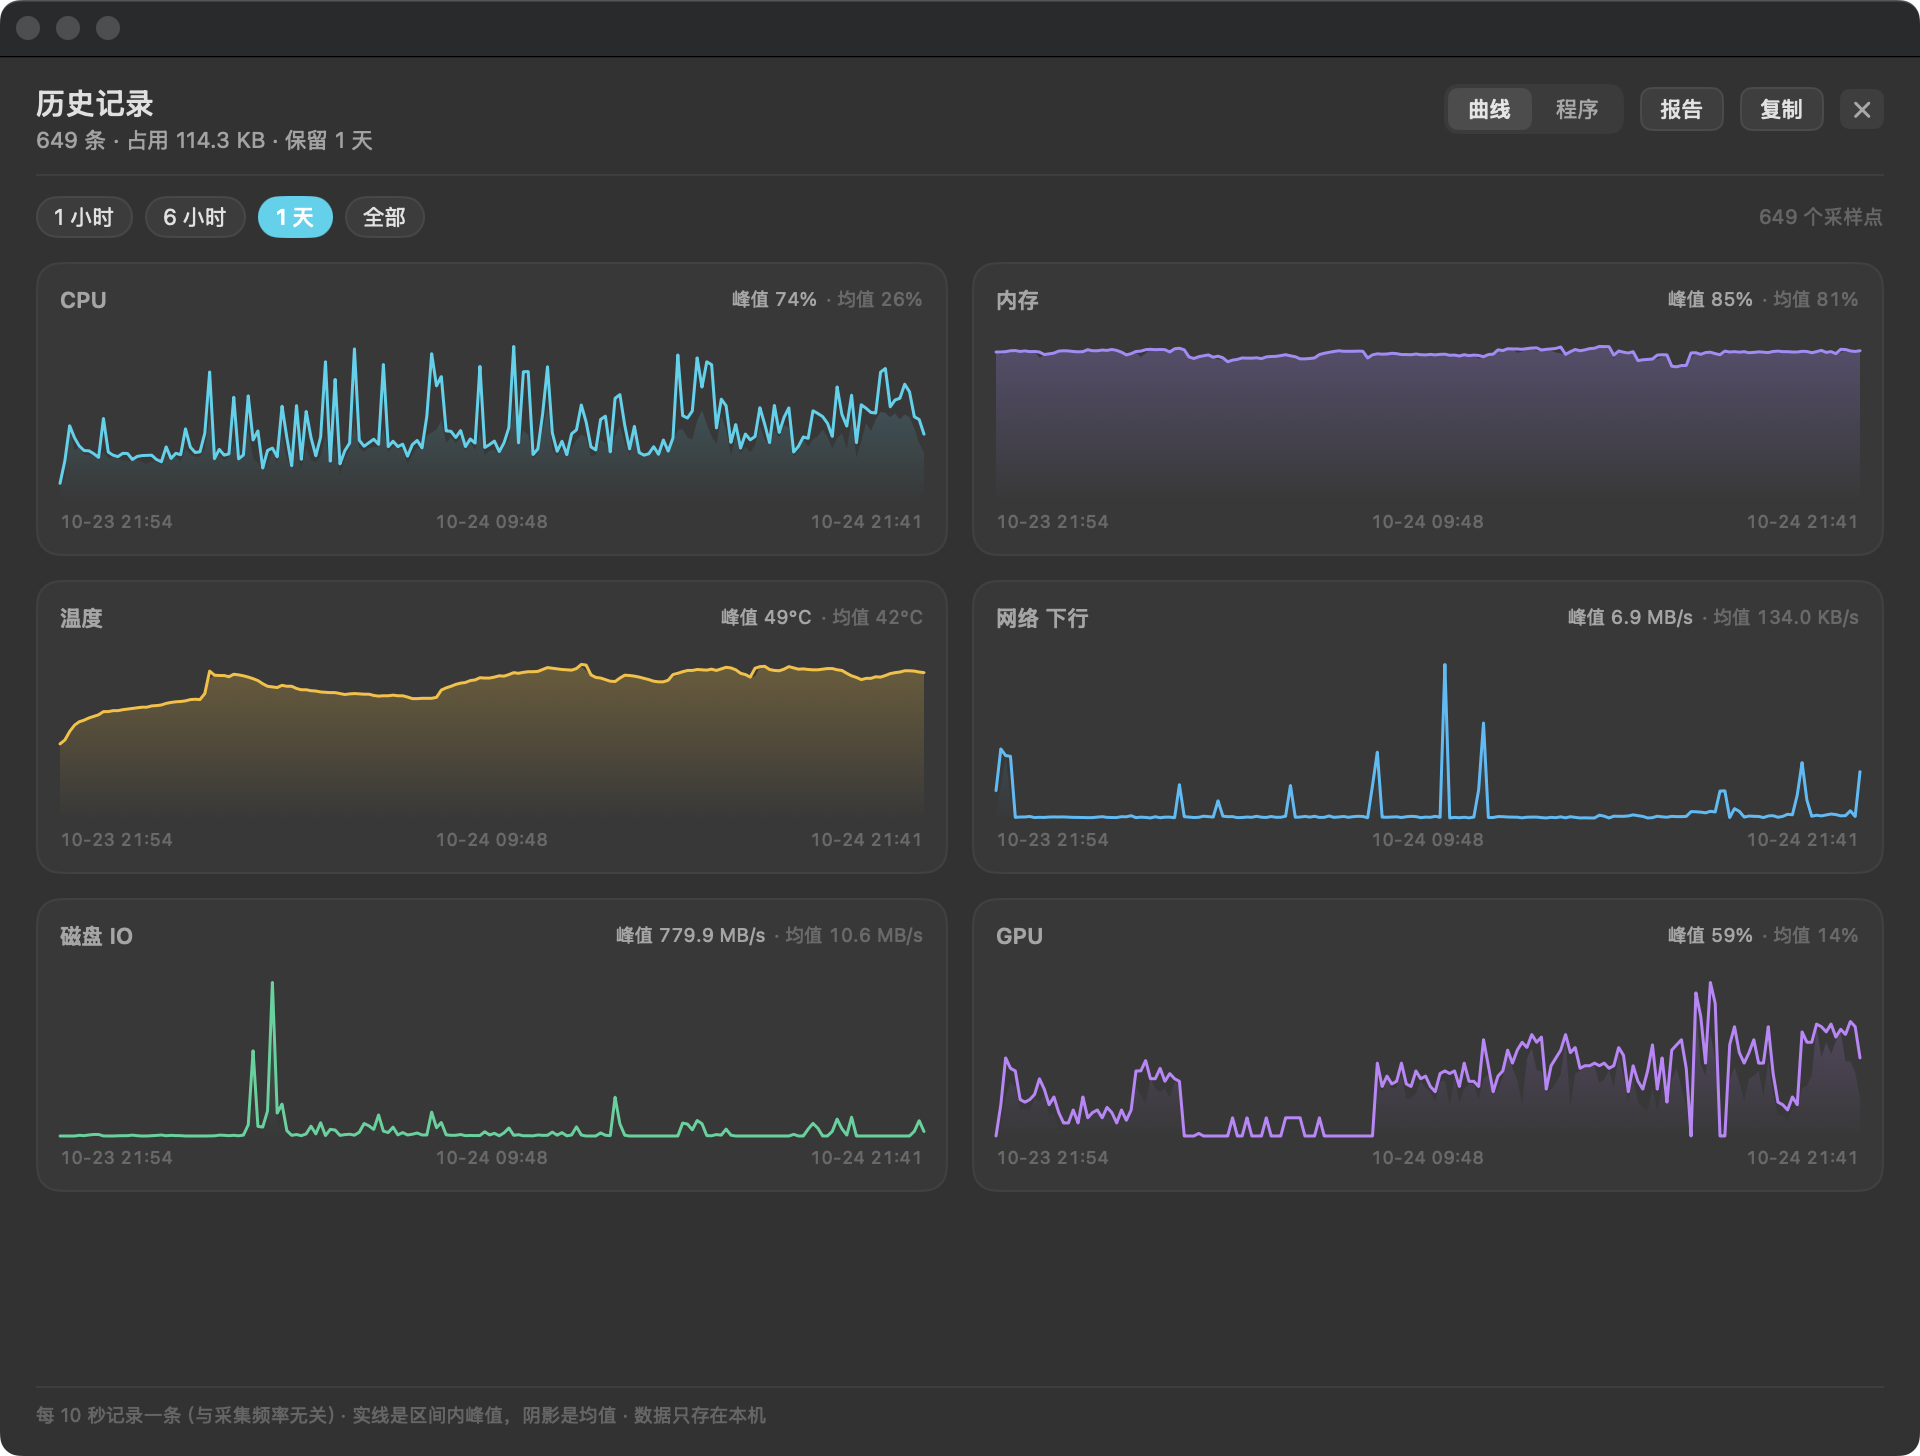
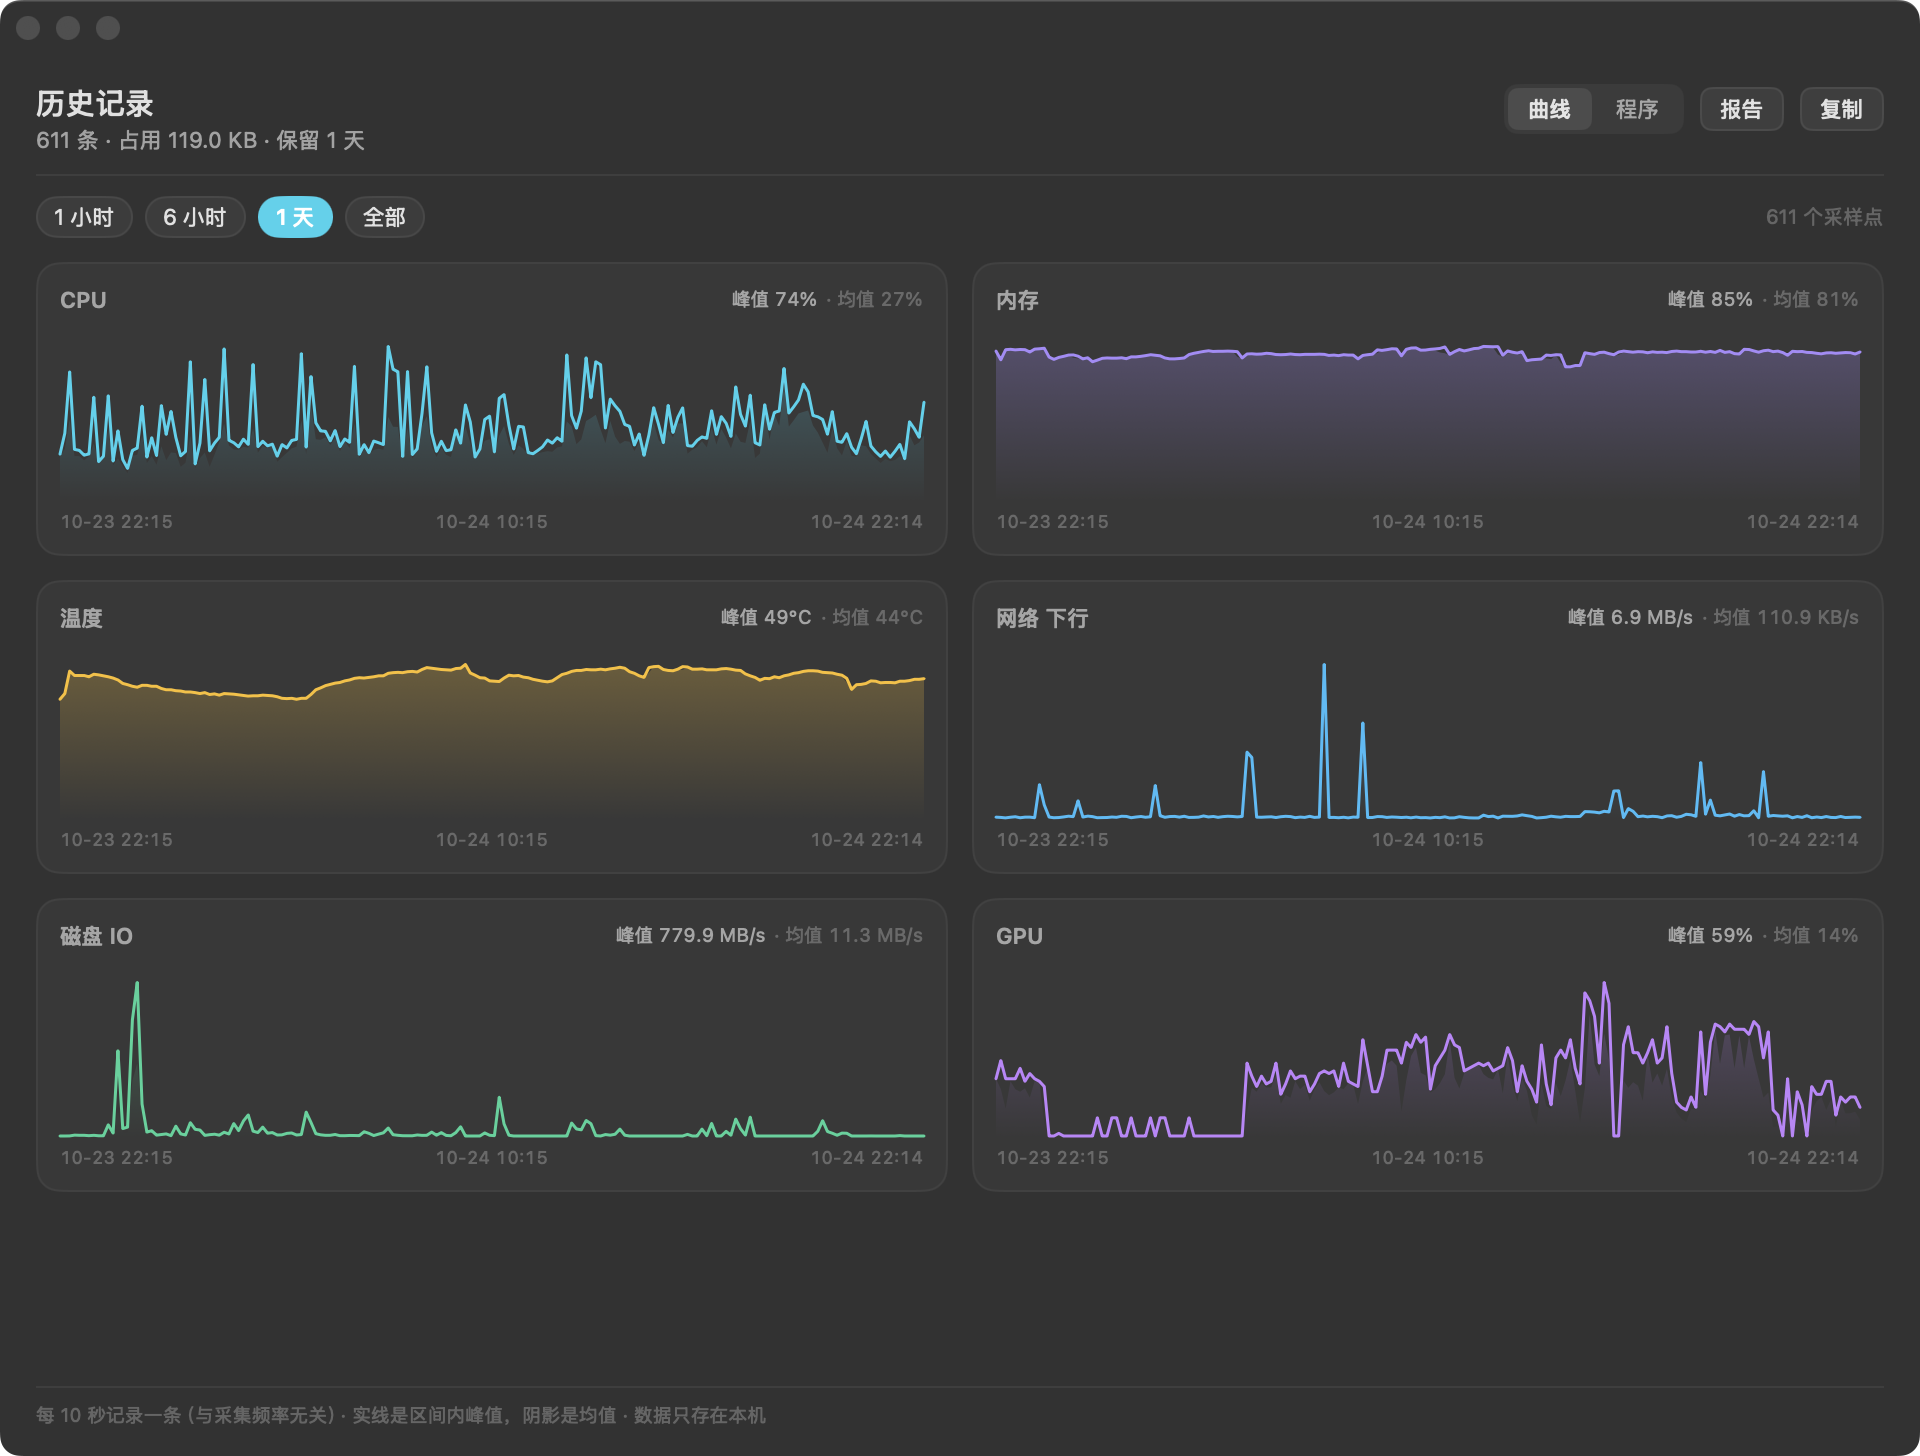
feat(ui): 三个窗口去掉标题栏分隔线，内容顶到最上面
用户看到的那条线不是标题文字，是标题栏自己的分隔线——只设
titleVisibility = .hidden 是去不掉的。

- 新增 NSWindow.useUnifiedChrome()：.fullSizeContentView + 透明标题栏 +
  titlebarSeparatorStyle = .none + 背景可拖
- 主面板 / 历史 / 设置三个窗口统一走这一套；正文靠 safeAreaInsets 自动
  让开红绿灯，不需要手写 padding
- 历史、设置里自绘的 ✕ 删掉（左上角红绿灯已经是关闭按钮了），
  键盘党改用 Esc（cancelOperation）
- 关于卡片：技术栈 Tauri 2 → SwiftUI，版本号跟 core/Cargo.toml 一起到 0.2.0
- 截图更新（新增浅色主题主面板），ADR-021 记下这次取舍

diff --git a/macos/Sources/EZPcMonitor/UI/WindowChrome.swift b/macos/Sources/EZPcMonitor/UI/WindowChrome.swift
@@ -1,0 +1,31 @@
+import AppKit
+
+/// 三个窗口共用的外观：内容延伸到标题栏底下，标题栏只剩三个红绿灯。
+///
+/// 现在 macOS 上的新应用基本都这么做（系统设置、Music、Notes，以及绝大多数
+/// 第三方工具）。传统的 `.titled` 窗口会在标题栏和正文之间画一条 1px 分隔线，
+/// 标题栏自己还带一层材质——那是最"像 2010 年"的地方。
+///
+/// 三件事必须一起做，少一件都不到位：
+/// 1. `.fullSizeContentView`：内容视图占满整个窗口，能画到标题栏底下；
+/// 2. `titlebarAppearsTransparent`：去掉标题栏那层材质，否则会在内容上盖一条灰带；
+/// 3. `titlebarSeparatorStyle = .none`：去掉那条分隔线（macOS 11+ 的 API）。
+///    只做 1+2 的话，线还在。
+///
+/// 红绿灯不会被内容盖住：`.fullSizeContentView` 会把标题栏高度写进
+/// `contentView.safeAreaInsets.top`，SwiftUI 的根视图默认遵守安全区，
+/// 所以正文自动从红绿灯下方开始。真要让内容顶上去，得显式 `.ignoresSafeArea()`。
+///
+/// 曾经踩过的坑：只开 `titlebarAppearsTransparent` 而没同时把内容让出安全区，
+/// 内容会盖住红绿灯，窗口就点不掉了。现在靠安全区解决，不需要手写 padding。
+extension NSWindow {
+    func useUnifiedChrome() {
+        styleMask.insert(.fullSizeContentView)
+        titlebarAppearsTransparent = true
+        titleVisibility = .hidden
+        titlebarSeparatorStyle = .none
+        // 标题栏只剩 28pt，光靠那一条拖窗口太窄；让整块背景都能拖。
+        isMovableByWindowBackground = true
+        backgroundColor = .windowBackgroundColor
+    }
+}

diff --git a/macos/Sources/EZPcMonitor/UI/SettingsWindow.swift b/macos/Sources/EZPcMonitor/UI/SettingsWindow.swift
@@ -11,12 +11,17 @@ final class SettingsWindow: NSWindow {
             backing: .buffered,
             defer: false
         )
-        titleVisibility = .hidden
         title = "Settings"
+        useUnifiedChrome()
         isReleasedWhenClosed = false
         contentView = NSHostingView(rootView: AnyView(content))
         center()
         setFrameAutosaveName("ezpcm.settings")
+    }
+
+    /// Esc 关窗。窗口里没有自绘的关闭按钮了，键盘总得留个出口。
+    override func cancelOperation(_ sender: Any?) {
+        performClose(nil)
     }
 }
 
@@ -110,20 +115,9 @@ struct SettingsView: View {
 
     var body: some View {
         VStack(alignment: .leading, spacing: 0) {
-            SheetHeader(i18n.t("set.title"), subtitle: i18n.t("set.sub")) {
-                Button { NSApp.keyWindow?.performClose(nil) } label: {
-                    Image(systemName: "xmark")
-                        .font(.system(size: 10, weight: .bold))
-                        .foregroundStyle(.secondary)
-                        .frame(width: 22, height: 20)
-                        .background(
-                            RoundedRectangle(cornerRadius: 5, style: .continuous)
-                                .fill(Color.primary.opacity(0.07))
-                        )
-                }
-                .buttonStyle(.plain)
-                .help(i18n.t("common.closeEsc"))
-            }
+            // 不再画自绘的 ✕：窗口左上角已经有红绿灯了，两个关闭按钮并排只会让人犹豫。
+            // 键盘党按 Esc 一样能关（下面的 onExitCommand）。
+            SheetHeader(i18n.t("set.title"), subtitle: i18n.t("set.sub"))
 
             Hairline().padding(.top, 10)
 

diff --git a/macos/Sources/EZPcMonitor/UI/HistoryWindow.swift b/macos/Sources/EZPcMonitor/UI/HistoryWindow.swift
@@ -12,12 +12,17 @@ final class HistoryWindow: NSWindow {
             backing: .buffered,
             defer: false
         )
-        titleVisibility = .hidden
         title = "History"
+        useUnifiedChrome()
         minSize = NSSize(width: 820, height: 560)
         contentView = NSHostingView(rootView: AnyView(content))
         center()
         setFrameAutosaveName("ezpcm.history")
+    }
+
+    /// Esc 关窗。窗口里没有自绘的关闭按钮了，键盘总得留个出口。
+    override func cancelOperation(_ sender: Any?) {
+        performClose(nil)
     }
 }
 
@@ -158,18 +163,8 @@ struct HistoryView: View {
                 Task { await makeReport(copy: true) }
             }
 
-            Button { NSApp.keyWindow?.performClose(nil) } label: {
-                Image(systemName: "xmark")
-                    .font(.system(size: 10, weight: .bold))
-                    .foregroundStyle(.secondary)
-                    .frame(width: 22, height: 20)
-                    .background(
-                        RoundedRectangle(cornerRadius: 5, style: .continuous)
-                            .fill(Color.primary.opacity(0.07))
-                    )
-            }
-            .buttonStyle(.plain)
-            .help(i18n.t("common.closeEsc"))
+            // 自绘的 ✕ 去掉了：窗口左上角已经有红绿灯，两个关闭按钮并排只会让人犹豫。
+            // 键盘党按 Esc 一样能关（HistoryWindow.cancelOperation）。
         }
     }
 

diff --git a/macos/Sources/EZPcMonitor/UI/DashboardView.swift b/macos/Sources/EZPcMonitor/UI/DashboardView.swift
@@ -11,11 +11,11 @@ final class DashboardWindow: NSWindow {
             backing: .buffered,
             defer: false
         )
-        // 标题栏透明、标题文字不画（大标题在内容里）。
-        // 注意别开 `titlebarAppearsTransparent`：它会把 `.fullSizeContentView`
-        // 塞进 styleMask，内容顶到窗口最上面，红绿灯被盖住——窗口就关不掉了。
-        titleVisibility = .hidden
+        // 标题栏透明、标题文字不画（大标题在内容里），内容延伸到标题栏底下。
+        // 具体做了哪三件事见 WindowChrome.swift——光设 titleVisibility 是没用的，
+        // 那条分隔线来自标题栏自己，不是标题文字。
         title = "EZPcMonitor"
+        useUnifiedChrome()
         minSize = NSSize(width: 880, height: 660)
         contentView = NSHostingView(rootView: AnyView(content))
         center()

diff --git a/macos/i18n/ja.ts b/macos/i18n/ja.ts
@@ -87,7 +87,7 @@ export const strings: Dict = {
   "set.clear": "クリア",
   "set.estimate": "現在の設定では、{ret} 分の履歴で約 {size}（{n} 秒ごとに 1 件）。",
   "set.group.about": "このアプリについて",
-  "set.aboutHint": "Tauri 2 · Rust · データはすべて端末内で収集",
+  "set.aboutHint": "SwiftUI · Rust · データはすべて端末内で収集",
   "set.foot": "変更はすぐに反映され、再起動は不要です。履歴ファイルはアプリのデータフォルダーの history.jsonl と procs/ フォルダーにあり、いつでも消去できます。",
 
   "hist.title": "履歴",

diff --git a/macos/i18n/fr.ts b/macos/i18n/fr.ts
@@ -88,7 +88,7 @@ export const strings: Dict = {
   "set.estimate":
     "Avec les réglages actuels, l'historique de {ret} occupe environ {size} (une ligne toutes les {n} s).",
   "set.group.about": "À propos",
-  "set.aboutHint": "Tauri 2 · Rust · tout est collecté localement",
+  "set.aboutHint": "SwiftUI · Rust · tout est collecté localement",
   "set.foot":
     "Les changements s'appliquent immédiatement, sans redémarrage. Le fichier d'historique se trouve dans le dossier de données de l'application (history.jsonl), les échantillons par programme dans procs/. Les deux peuvent être vidés à tout moment.",
 

diff --git a/macos/i18n/ko.ts b/macos/i18n/ko.ts
@@ -87,7 +87,7 @@ export const strings: Dict = {
   "set.clear": "비우기",
   "set.estimate": "현재 설정으로 {ret} 분량을 보관하면 약 {size}({n}초마다 한 줄)입니다.",
   "set.group.about": "정보",
-  "set.aboutHint": "Tauri 2 · Rust · 모든 데이터를 이 기기에서 수집",
+  "set.aboutHint": "SwiftUI · Rust · 모든 데이터를 이 기기에서 수집",
   "set.foot": "변경 사항은 즉시 적용되며 재시작이 필요 없습니다. 기록 파일은 앱 데이터 폴더의 history.jsonl과 procs/ 폴더이며 언제든 비울 수 있습니다.",
 
   "hist.title": "기록",

diff --git a/macos/i18n/en.ts b/macos/i18n/en.ts
@@ -87,7 +87,7 @@ export const strings: Dict = {
   "set.clear": "Clear",
   "set.estimate": "With the current settings, {ret} of history takes about {size} (one row every {n} s).",
   "set.group.about": "About",
-  "set.aboutHint": "Tauri 2 · Rust · everything is collected locally",
+  "set.aboutHint": "SwiftUI · Rust · everything is collected locally",
   "set.foot":
     "Changes apply immediately — no restart needed. The history file lives in the app data directory as history.jsonl, with the per-program samples under procs/. Both can be cleared at any time.",
 

diff --git a/macos/i18n/es.ts b/macos/i18n/es.ts
@@ -88,7 +88,7 @@ export const strings: Dict = {
   "set.estimate":
     "Con los ajustes actuales, {ret} de historial ocupan unos {size} (una fila cada {n} s).",
   "set.group.about": "Acerca de",
-  "set.aboutHint": "Tauri 2 · Rust · todo se captura localmente",
+  "set.aboutHint": "SwiftUI · Rust · todo se captura localmente",
   "set.foot":
     "Los cambios se aplican al instante, sin reiniciar. El archivo de historial está en la carpeta de datos de la aplicación (history.jsonl) y las muestras por programa en procs/. Ambos pueden vaciarse cuando quieras.",
 

diff --git a/macos/i18n/zh-CN.ts b/macos/i18n/zh-CN.ts
@@ -97,7 +97,7 @@ export const strings = {
   "set.clear": "清空",
   "set.estimate": "按当前设置，保留 {ret} 约占 {size}（每 {n} 秒一条）。",
   "set.group.about": "关于",
-  "set.aboutHint": "Tauri 2 · Rust · 数据全部在本机采集",
+  "set.aboutHint": "SwiftUI · Rust · 数据全部在本机采集",
   "set.foot": "改完立即生效，不需要重启。历史文件在应用数据目录下的 history.jsonl 与 procs/ 目录，随时可以清空。",
 
   // ---------------------------------------------------------------- 历史

diff --git a/macos/i18n/zh-TW.ts b/macos/i18n/zh-TW.ts
@@ -87,7 +87,7 @@ export const strings: Dict = {
   "set.clear": "清空",
   "set.estimate": "依目前設定，保留 {ret} 約佔 {size}（每 {n} 秒一筆）。",
   "set.group.about": "關於",
-  "set.aboutHint": "Tauri 2 · Rust · 資料全部在本機採集",
+  "set.aboutHint": "SwiftUI · Rust · 資料全部在本機採集",
   "set.foot": "改完立即生效，不需要重新啟動。歷史檔案在應用程式資料目錄下的 history.jsonl 與 procs/ 目錄，隨時可以清空。",
 
   "hist.title": "歷史記錄",

diff --git a/docs/DECISIONS.md b/docs/DECISIONS.md
@@ -578,3 +578,36 @@ SwiftPM）、用 UniFFI 之类的绑定生成器、或者手写一层 C ABI。
 - 报告图现在是"深色一张皮"，浅色主题下导出也是深色。用户拿到的是图，不是界面。
 - `extract-strings.mjs` 依赖 Node 的 `--experimental-strip-types`（Node 22+）。
   没有 Node 时构建会跳过这一步，沿用已有的 `strings.json`，不会失败。
+
+---
+
+## ADR-021 窗口不要标题栏：内容顶到最上面，只留红绿灯
+
+**日期**：2026-10-24 · **状态**：生效
+
+**背景**：三个窗口（主面板 / 历史 / 设置）原来都是标准 `.titled` 窗口，只是把标题文字
+藏了。结果是：标题栏一条材质 + 下面一条 1px 分隔线，看起来像 2010 年的窗口；而正文里
+已经有一个 19pt 的标题（主机名），两套标题并存。
+
+**决定**：三个窗口统一走 `NSWindow.useUnifiedChrome()`——`.fullSizeContentView` +
+`titlebarAppearsTransparent` + `titlebarSeparatorStyle = .none` + 允许背景拖动。
+同时删掉历史/设置里自绘的 ✕（红绿灯已经在那儿了），改用 Esc 关窗。
+
+**理由**：
+
+- 现在 macOS 上的新应用基本都是这个形态（系统设置、Music、Notes）。用户看到的那条线
+  不是标题文字，是**标题栏自己的分隔线**——只设 `titleVisibility = .hidden` 是去不掉的，
+  必须 `titlebarSeparatorStyle = .none`。
+- 正文让开红绿灯不需要手写 padding：`.fullSizeContentView` 会把标题栏高度写进
+  `contentView.safeAreaInsets.top`，SwiftUI 根视图默认遵守安全区。
+- 两个关闭按钮（红绿灯 + 自绘 ✕）并排会让人犹豫"哪个才是关"，删掉自绘的那个，
+  键盘党留给 Esc。
+
+**已知取舍**：
+
+- 窗口顶部 28pt 的标题栏区域不再能放控件（会被红绿灯和拖拽区吃掉）。
+- `isMovableByWindowBackground = true` 之后，按住卡片空白也能拖窗口——是特性，不是 bug，
+  但和"拖拽选择文字"的习惯略有冲突（本应用没有可选文字）。
+- 自绘 ✕ 删掉之后，只用鼠标的用户少了一个"就在右上角"的关闭入口，得移到左上角。
+  这是为了少一个按钮、少一次犹豫。
+
